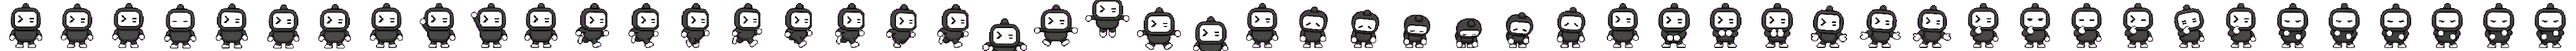
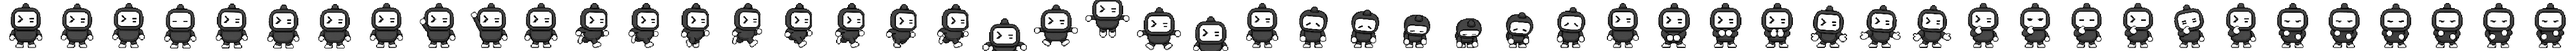
fix(desktop): clear the mascot key colour on dark surfaces
The mascot frames were keyed off a magenta background with a hard alpha
threshold, so every partially covered edge pixel stayed fully opaque with
the key colour still blended into it. On the dark theme that read as a
purple fringe around the character.

The artwork is monochrome and the key carries no green, so the red/blue
excess over green recovers each edge pixel's coverage and green recovers
its grey. Restoring that alpha removes the fringe instead of painting
over it, and leaves no chromatic pixel in the sheet. The frame layout and
group offsets are unchanged.

diff --git a/scripts/clean-mascot-sprite.py b/scripts/clean-mascot-sprite.py
@@ -1,0 +1,82 @@
+#!/usr/bin/env python3
+"""Strip the magenta chroma-key residue from the home mascot sprite sheet.
+
+The supplied mascot frames were drawn over a pure magenta background and keyed
+out with a hard alpha threshold. Every pixel the character only partially
+covers therefore stayed fully opaque with the key colour still blended into it,
+which reads as a purple outline against the dark theme.
+
+The artwork is monochrome, so a partially covered pixel is
+``alpha * grey + (1 - alpha) * key`` with ``key = (255, 0, 255)``. Green carries
+none of the key, so the red/blue excess over green recovers the coverage and
+green itself recovers the original grey. That restores the antialiased alpha the
+threshold discarded instead of merely hiding the tint.
+
+Idempotent: a cleaned sheet has no key excess left to remove.
+
+Run: python3 scripts/clean-mascot-sprite.py
+"""
+
+from __future__ import annotations
+
+from pathlib import Path
+
+from PIL import Image
+
+ROOT = Path(__file__).resolve().parent.parent
+SHEET = ROOT / "apps" / "desktop" / "src" / "assets" / "home-mascot-groups.png"
+
+# Red and blue channels of the key; green is 0, which is what makes the
+# recovery possible.
+KEY_CHANNEL = 255
+# Below this the excess is resampling noise rather than key colour, and
+# dividing by an alpha of ~1 would only churn the pixel.
+EXCESS_FLOOR = 2
+# A pixel this thinly covered is background the threshold should have dropped.
+MIN_COVERAGE = 0.05
+
+
+def main() -> None:
+    sheet = Image.open(SHEET).convert("RGBA")
+    width, height = sheet.size
+    pixels = sheet.load()
+
+    recovered = 0
+    dropped = 0
+    neutralised = 0
+
+    for y in range(height):
+        for x in range(width):
+            red, green, blue, alpha = pixels[x, y]
+            if alpha == 0:
+                continue
+
+            excess = ((red - green) + (blue - green)) / 2
+            if excess < EXCESS_FLOOR:
+                # Already clean; snap off the last bit of resampling chroma so
+                # the sheet is exactly neutral.
+                grey = round((red + green + blue) / 3)
+                if (red, green, blue) != (grey, grey, grey):
+                    pixels[x, y] = (grey, grey, grey, alpha)
+                    neutralised += 1
+                continue
+
+            coverage = 1 - excess / KEY_CHANNEL
+            if coverage < MIN_COVERAGE:
+                pixels[x, y] = (0, 0, 0, 0)
+                dropped += 1
+                continue
+
+            grey = min(255, round(green / coverage))
+            pixels[x, y] = (grey, grey, grey, round(coverage * 255))
+            recovered += 1
+
+    sheet.save(SHEET)
+    print(f"{SHEET.relative_to(ROOT)}: {width // height} frames")
+    print(f"  recovered edge pixels: {recovered}")
+    print(f"  dropped background pixels: {dropped}")
+    print(f"  neutralised chroma noise: {neutralised}")
+
+
+if __name__ == "__main__":
+    main()

diff --git a/docs/spec/04-ux/07-ui-design-system.md b/docs/spec/04-ux/07-ui-design-system.md
@@ -98,7 +98,11 @@ Codex as a visual reference. The identity contract is deliberately small:
   previous one. Frames swap discretely inside the fixed 100px viewport, while
   the completed pose rests for several seconds before the next selection
   (single-frame poses rest longer). Reduced motion holds the current group's
-  first frame.
+  first frame. The sheet is monochrome with recovered edge alpha: the frames
+  were keyed off a magenta background, so a partially covered pixel carries its
+  own coverage rather than the key colour, and the mascot leaves no coloured
+  fringe on a dark surface. `python3 scripts/clean-mascot-sprite.py` restores
+  that property if the sheet is ever recompiled with a hard alpha threshold.
   `BrandLogo` remains 20px/18px in the expanded/collapsed sidebar and 64px in
   the startup splash. Composer prompt rows do not render a leading brand icon
   in either home or thread-docked mode.

diff --git a/docs/zh-CN/spec/04-ux/07-ui-design-system.md b/docs/zh-CN/spec/04-ux/07-ui-design-system.md
@@ -96,7 +96,10 @@ PI-Desktop 的行为类似于桌面应用程序 shell，因此意外拖动
   上一篇。帧在固定的 100px 视口内离散地交换，而
   完成的姿势在下一个选择之前会休息几秒钟
   （单帧姿势休息时间更长）。减少运动保持当前组的
-  第一帧。
+  第一帧。该图集为单色，且保留了边缘的实际覆盖率：帧原本是从洋红背景
+  抠出来的，部分覆盖的像素记录的是自身的覆盖率而不是键控色，因此吉祥物
+  在深色表面上不会留下彩色描边。若图集被重新编译并再次使用硬阈值抠图，
+  运行 `python3 scripts/clean-mascot-sprite.py` 可恢复该特性。
   `BrandLogo` 在 expanded/collapsed 侧边栏中保留 20px/18px，在
   启动水花。 Composer 提示行不呈现领先品牌图标
 在主模式或线程对接模式下。
